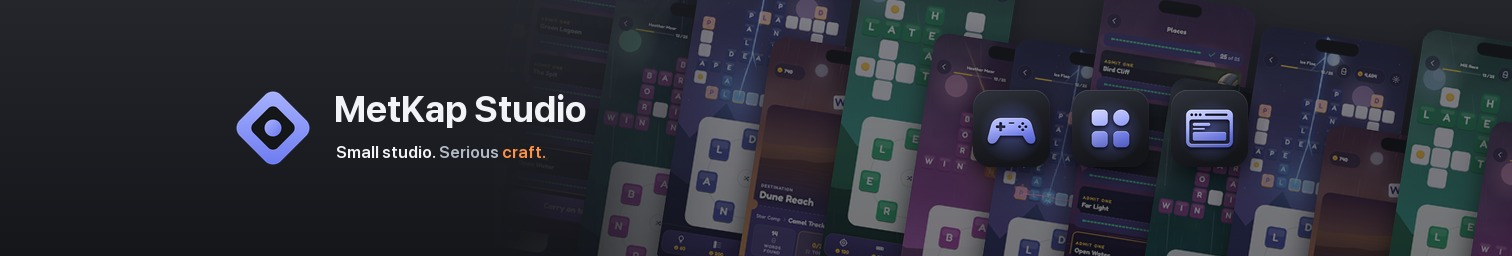
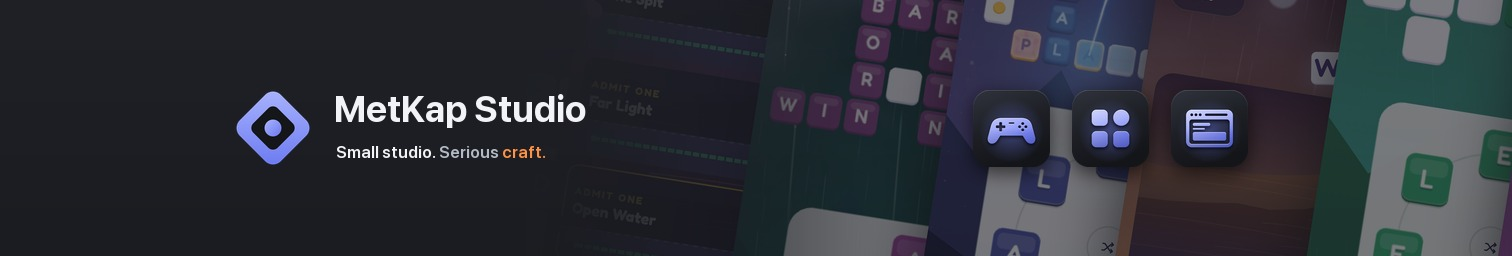
Every cover size shows the same screenshots as the Google Play cover, with none repeated
Proof: Headless
Unproven: how each platform's upload screen crops its file; nothing was uploaded
Unrendered: public/og-image.png is only read by sites that preview a shared link; no page of the site draws it, and tests/dist.test.ts still holds it at 1200 x 630
Version: v0.58.4

diff --git a/store-assets/covers/covers-2026-10-28-1338-studio-cover/build/platforms.py b/store-assets/covers/covers-2026-10-28-1338-studio-cover/build/platforms.py
@@ -1,7 +1,7 @@
-# Lays the picked cover (front + background 21) out again for every platform's own shape and safe area.
-# Run: node render-svg.cjs && python3 platforms.py   (writes ../<platform>/ files and ../master/)
-# Settles: every platform gets the same cover, re-laid from its parts rather than cropped, with the
-# lockup and the 3 tiles inside what that platform never covers or cuts off.
+# Makes the picked cover (front + background 21) for every platform's own shape and safe area.
+# Run: node render-svg.cjs && python3 platforms.py   (writes ../<platform>/ files)
+# Settles: every platform gets the same cover — the Google Play background scaled to fit, the text
+# re-placed at the far left and the 3 tiles over the screenshots, inside what that platform shows.
 import math, sys
 from pathlib import Path
 import numpy as np
@@ -41,7 +41,32 @@ def phones(W, H, x0, ph, pivot_x):
     return line.crop((pad, pad, pad + W, pad + H))
 
 
-def compose(W, H, out, safe=(0, 0, 1, 1), align=0.5, ph=None, quality=None):
+_MASTER = None
+
+
+def background(W, H):
+    """The Google Play background, scaled to fill W x H and trimmed top and bottom, never re-laid:
+    every size shows the same phones at the same size relative to its width, nothing repeated."""
+    global _MASTER
+    if _MASTER is None:
+        MW, MH = 4096, 2304
+        m = Image.new('RGB', (MW, MH)); d = ImageDraw.Draw(m)
+        for y in range(MH):
+            t = y / (MH - 1)
+            d.line([(0, y), (MW, y)], fill=tuple(round(a + (b - a) * t) for a, b in zip(BG_TOP, BG_BOTTOM)))
+        m = m.convert('RGBA')
+        rx = (MW - ROW_W * MH) * 0.325  # where the master's gem stands
+        x0, ph = rx + PHONES_AT * MH, MH * 0.92
+        lay = phones(MW, MH, x0, ph, x0 + 0.735 * ph)  # the master turns the line about this point
+        m.alpha_composite(fade(lay, MW, MH, start=(rx + FADE_AT * MH) / MW, span=FADE_SPAN * MH / MW, edge=0.0, strength=0.42))
+        _MASTER = m
+    k = max(W / _MASTER.width, H / _MASTER.height)
+    big = _MASTER.resize((math.ceil(_MASTER.width * k), math.ceil(_MASTER.height * k)), Image.LANCZOS)
+    top = (big.height - H) // 2
+    return big.crop((big.width - W, top, big.width, top + H))
+
+
+def compose(W, H, out, safe=(0, 0, 1, 1), align=0.5, quality=None):
     """safe: the box (fractions of W and H) the lockup and tiles must stay inside."""
     sx0, sy0, sx1, sy1 = safe[0] * W, safe[1] * H, safe[2] * W, safe[3] * H
     # 16:9 keeps the master's proportions; wider banners show small, so their front grows to fill the box.
@@ -50,17 +75,7 @@ def compose(W, H, out, safe=(0, 0, 1, 1), align=0.5, ph=None, quality=None):
     rx = sx0 + ((sx1 - sx0) - ROW_W * u) * align
     cy = (sy0 + sy1) / 2
 
-    bg = Image.new('RGB', (W, H)); d = ImageDraw.Draw(bg)
-    for y in range(H):
-        t = y / (H - 1)
-        d.line([(0, y), (W, y)], fill=tuple(round(a + (b - a) * t) for a, b in zip(BG_TOP, BG_BOTTOM)))
-    bg = bg.convert('RGBA')
-
-    ph = ph or H * 0.92
-    x0 = rx + PHONES_AT * u
-    lay = phones(W, H, x0, ph, x0 + 0.735 * ph)  # the master turns the line about this point
-    fs = rx + FADE_AT * u
-    bg.alpha_composite(fade(lay, W, H, start=fs / W, span=FADE_SPAN * u / W, edge=0.0, strength=0.42))
+    bg = background(W, H)
 
     # The 3 category tiles: games, apps, websites.
     s = round(u * 0.15); gap = round(s * 0.28)
@@ -109,28 +124,28 @@ def compose(W, H, out, safe=(0, 0, 1, 1), align=0.5, ph=None, quality=None):
 
 
 # The front always starts at the left of the safe box (align 0); 16:9 keeps the master's margin.
-# platform, file, W, H, safe box, align, phone height (None = 0.92 H), JPEG quality (None = PNG)
+# platform, file, W, H, safe box, align, JPEG quality (None = PNG)
 TARGETS = [
-    ('google-play', 'developer-header', 4096, 2304, (0, 0, 1, 1), 0.325, None, None),
-    ('youtube', 'channel-banner', 2560, 1440, (507 / 2560, 508 / 1440, 2053 / 2560, 931 / 1440), 0, None, 92),
-    ('facebook', 'page-cover', 1702, 630, (0.19, 0.10, 0.81, 0.84), 0, None, 92),
+    ('google-play', 'developer-header', 4096, 2304, (0, 0, 1, 1), 0.325, None),
+    ('youtube', 'channel-banner', 2560, 1440, (507 / 2560, 508 / 1440, 2053 / 2560, 931 / 1440), 0, 92),
+    ('facebook', 'page-cover', 1702, 630, (0.19, 0.10, 0.81, 0.84), 0, 92),
     # X, Bluesky and Mastodon put the profile photo over the bottom left, so the front sits above it.
-    ('x', 'header', 1500, 500, (0.05, 0.10, 0.96, 0.64), 0, None, 90),
-    ('bluesky', 'banner', 3000, 1000, (0.05, 0.10, 0.96, 0.64), 0, None, 88),
-    ('mastodon', 'header', 1500, 500, (0.05, 0.10, 0.96, 0.64), 0, None, 90),
+    ('x', 'header', 1500, 500, (0.05, 0.10, 0.96, 0.64), 0, 90),
+    ('bluesky', 'banner', 3000, 1000, (0.05, 0.10, 0.96, 0.64), 0, 88),
+    ('mastodon', 'header', 1500, 500, (0.05, 0.10, 0.96, 0.64), 0, 90),
     # LinkedIn's logo covers the bottom left 2-13 percent, so the front starts just right of it.
-    ('linkedin', 'page-cover', 1512, 256, (0.15, 0.08, 0.95, 0.92), 0, 256 * 1.3, 92),
-    ('twitch', 'profile-banner', 1200, 480, (0.08, 0.08, 0.92, 0.92), 0, None, 92),
-    ('reddit', 'banner', 1600, 480, (0.06, 0.10, 0.94, 0.90), 0, None, 90),
-    ('discord', 'server-banner', 960, 540, (0.04, 0.14, 0.96, 0.96), 0.325, None, None),
-    ('github', 'social-preview', 1280, 640, (0.06, 0.08, 0.94, 0.92), 0, None, 90),
-    ('website', 'link-preview', 1200, 630, (0.06, 0.08, 0.94, 0.92), 0, None, None),
+    ('linkedin', 'page-cover', 1512, 256, (0.15, 0.08, 0.95, 0.92), 0, 92),
+    ('twitch', 'profile-banner', 1200, 480, (0.08, 0.08, 0.92, 0.92), 0, 92),
+    ('reddit', 'banner', 1600, 480, (0.06, 0.10, 0.94, 0.90), 0, 90),
+    ('discord', 'server-banner', 960, 540, (0.04, 0.14, 0.96, 0.96), 0.325, None),
+    ('github', 'social-preview', 1280, 640, (0.06, 0.08, 0.94, 0.92), 0, 90),
+    ('website', 'link-preview', 1200, 630, (0.06, 0.08, 0.94, 0.92), 0, None),
 ]
 
 
 def name_of(t):
     p, use, W, H = t[:4]
-    return OUT / p / f'metkap-studio-{p}-{use}-{W}x{H}.{"jpg" if t[7] else "png"}'
+    return OUT / p / f'metkap-studio-{p}-{use}-{W}x{H}.{"jpg" if t[6] else "png"}'
 
 
 if __name__ == '__main__':
@@ -140,7 +155,7 @@ if __name__ == '__main__':
     for t in TARGETS:
         if only and t[0] not in only:
             continue
-        box = compose(t[2], t[3], name_of(t), safe=t[4], align=t[5], ph=t[6], quality=t[7])
+        box = compose(t[2], t[3], name_of(t), safe=t[4], align=t[5], quality=t[6])
         landed[str(name_of(t).relative_to(OUT))] = {'front': box, 'safe': t[4]}
         print(t[0], t[2], t[3], 'front', box)
     (HERE / 'landed.json').write_text(json.dumps(landed, indent=1))  # read by prove.py

diff --git a/control/cards/every-cover-size-shows-the-same-screenshots-as-the-google-pl/card.md b/control/cards/every-cover-size-shows-the-same-screenshots-as-the-google-pl/card.md
@@ -1,0 +1,9 @@
+# Every cover size shows the same screenshots as the Google Play cover, with none repeated
+
+bump: patch
+unrendered: public/og-image.png is only read by sites that preview a shared link; no page of the site draws it, and tests/dist.test.ts still holds it at 1200 x 630
+unproven: how each platform's upload screen crops its file; nothing was uploaded
+
+The owner saw that the wide covers, LinkedIn most of all, filled their width by drawing a longer line of phone screens. That repeated the same screens and shrank them, so the banner looked like a different picture from the Google Play cover. Every size now uses the Google Play background itself. It is scaled to fill the banner's width and trimmed top and bottom, so each one shows the same phones in the same places, larger on the wide shapes and never repeated.
+
+The text and the 3 tiles are still placed for each shape as before: the text at the far left of what the platform shows, the tiles over the screenshots. The Google Play file is byte for byte unchanged. build/prove.py measured all 12 again: size, no alpha, file limits, and the front inside each safe box. The site's link preview is the new website file, copied byte for byte.

diff --git a/store-assets/covers/covers-2026-10-28-1338-studio-cover/README.md b/store-assets/covers/covers-2026-10-28-1338-studio-cover/README.md
@@ -12,7 +12,7 @@ Rebuild every file and check it:
 
 ## How each size is made
 
-- **Laid out again, never cropped.** Each file places the front and the phone line for its own shape (`platforms.py`).
+- **One background everywhere.** Every file uses the Google Play background, scaled to fill its width and trimmed top and bottom, so the same phones show at the same relative size, none repeated. The text and tiles are placed again for each shape (`platforms.py`).
 - **The front stays in the safe box**: the part every device shows, clear of any profile photo drawn over the banner.
 - **The text and the tiles are placed separately.** The gem and the name hold the far left of the safe box. The 3 tiles stand over the screenshots, at the master's 73.5% across, pulled in only where the safe box ends sooner.
 - **16:9 files keep the master's proportions**; wider banners let the front grow, because they show small.

diff --git a/docs/CHANGELOG.md b/docs/CHANGELOG.md
@@ -12,6 +12,10 @@ Semantic Versioning (pre-1.0 `0.MINOR.PATCH`). Internal-only work (docs,
 checkpoints, refactors, this initialization) is traceable via Step IDs and
 commits and does **not** consume a product version.
 
+## v0.58.4
+
+- Every cover size shows the same screenshots as the Google Play cover, with none repeated
+
 ## v0.58.3
 
 - A shared link to the site shows the studio cover: the gem, the name and the games, apps and websites it makes
